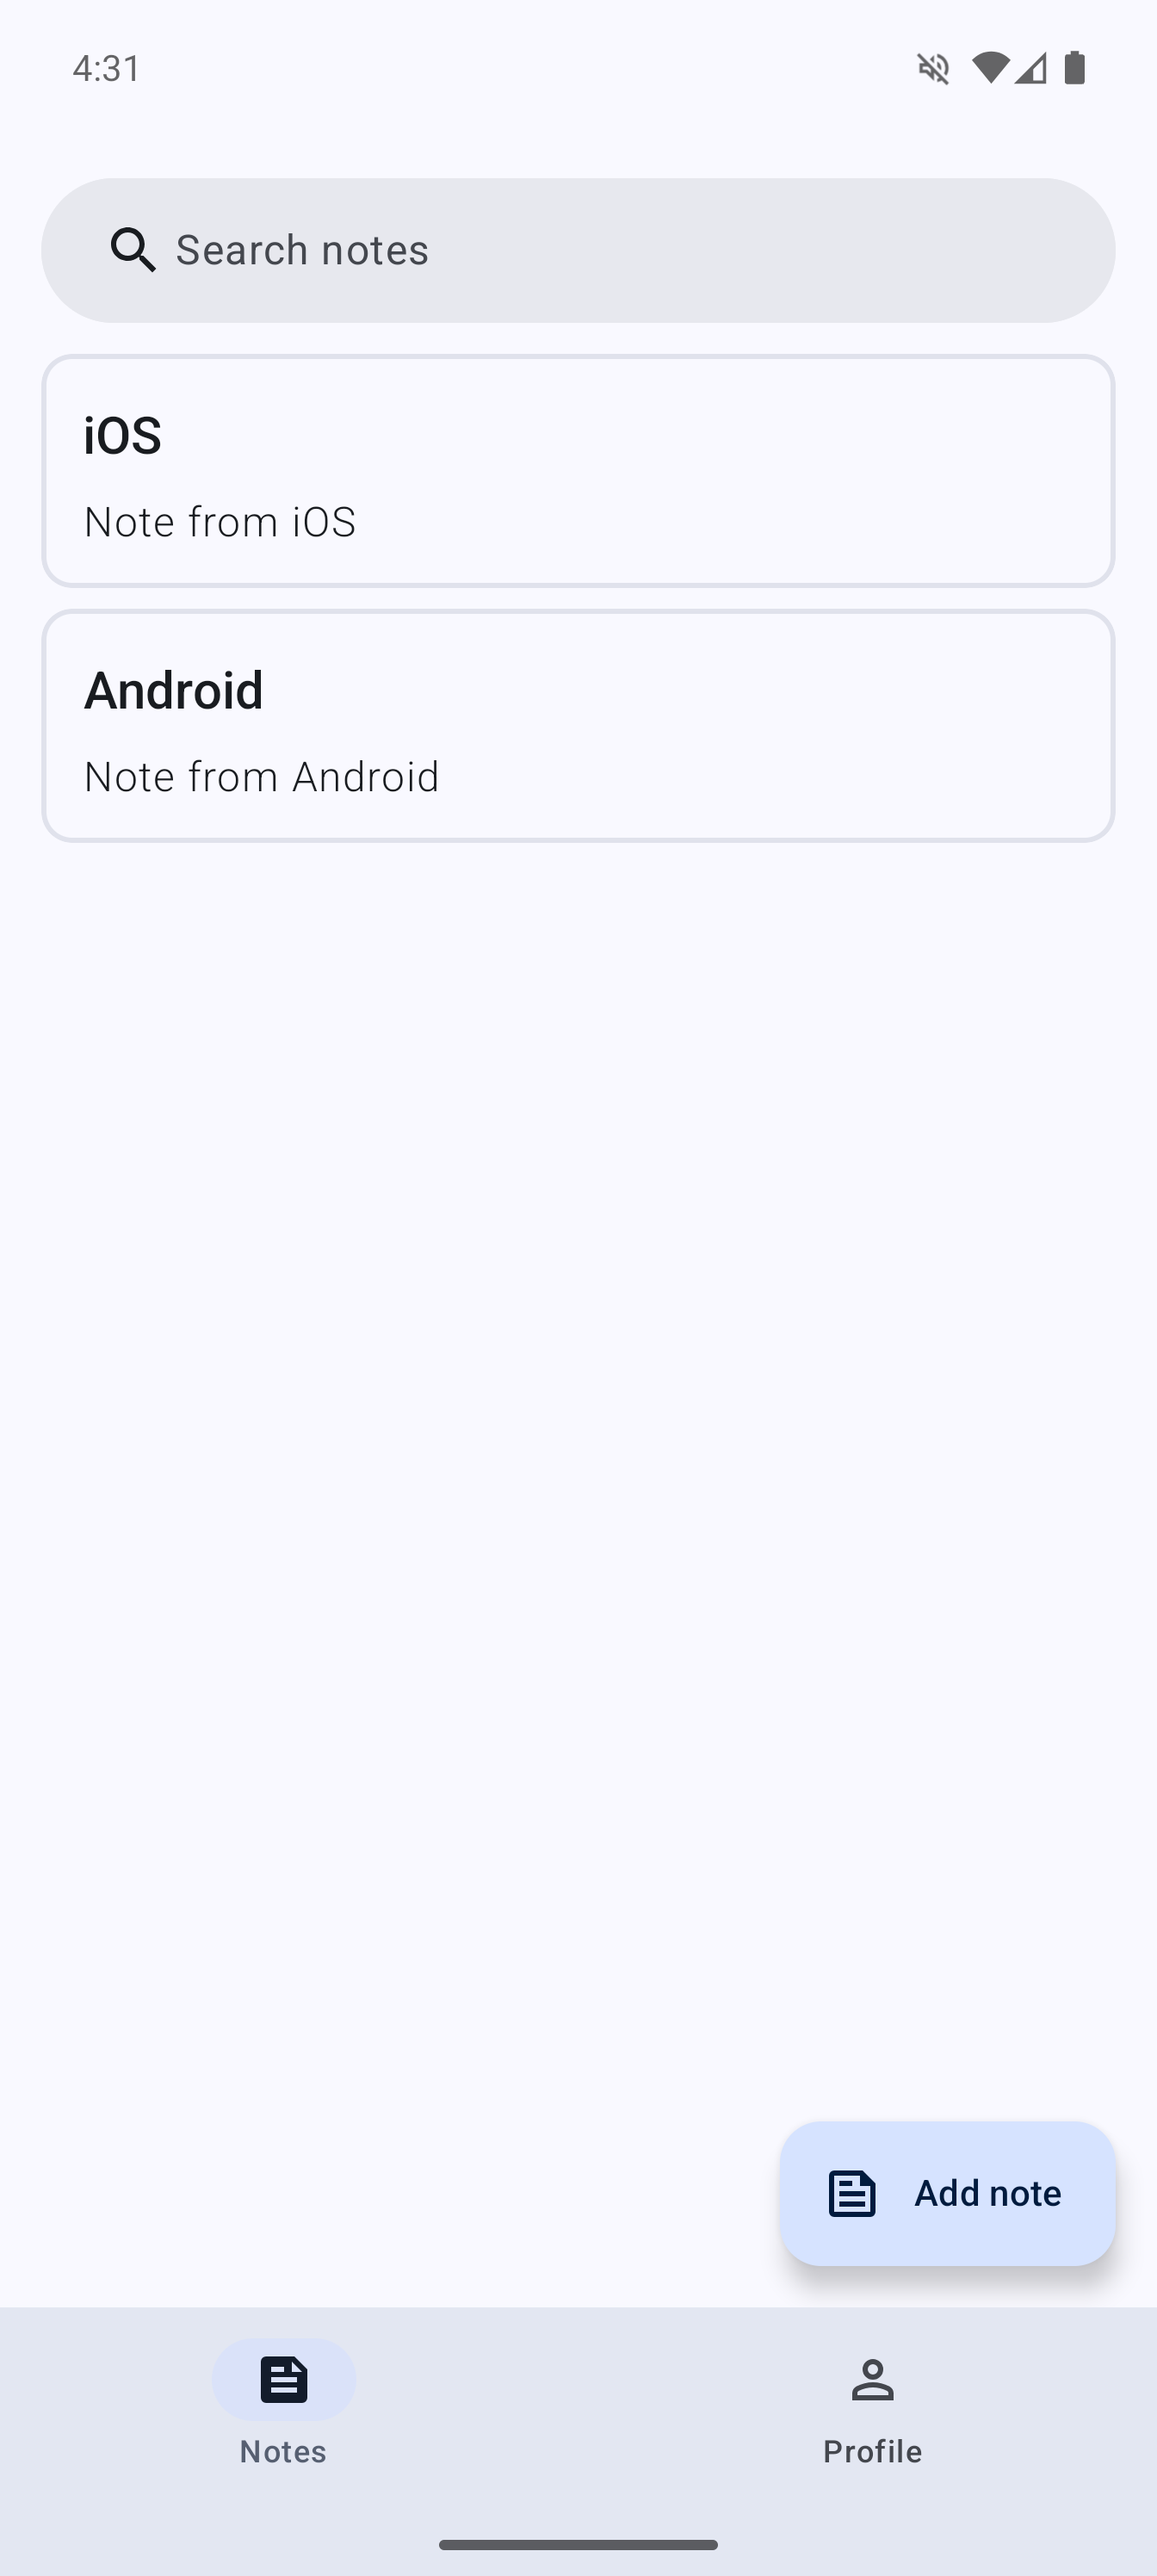
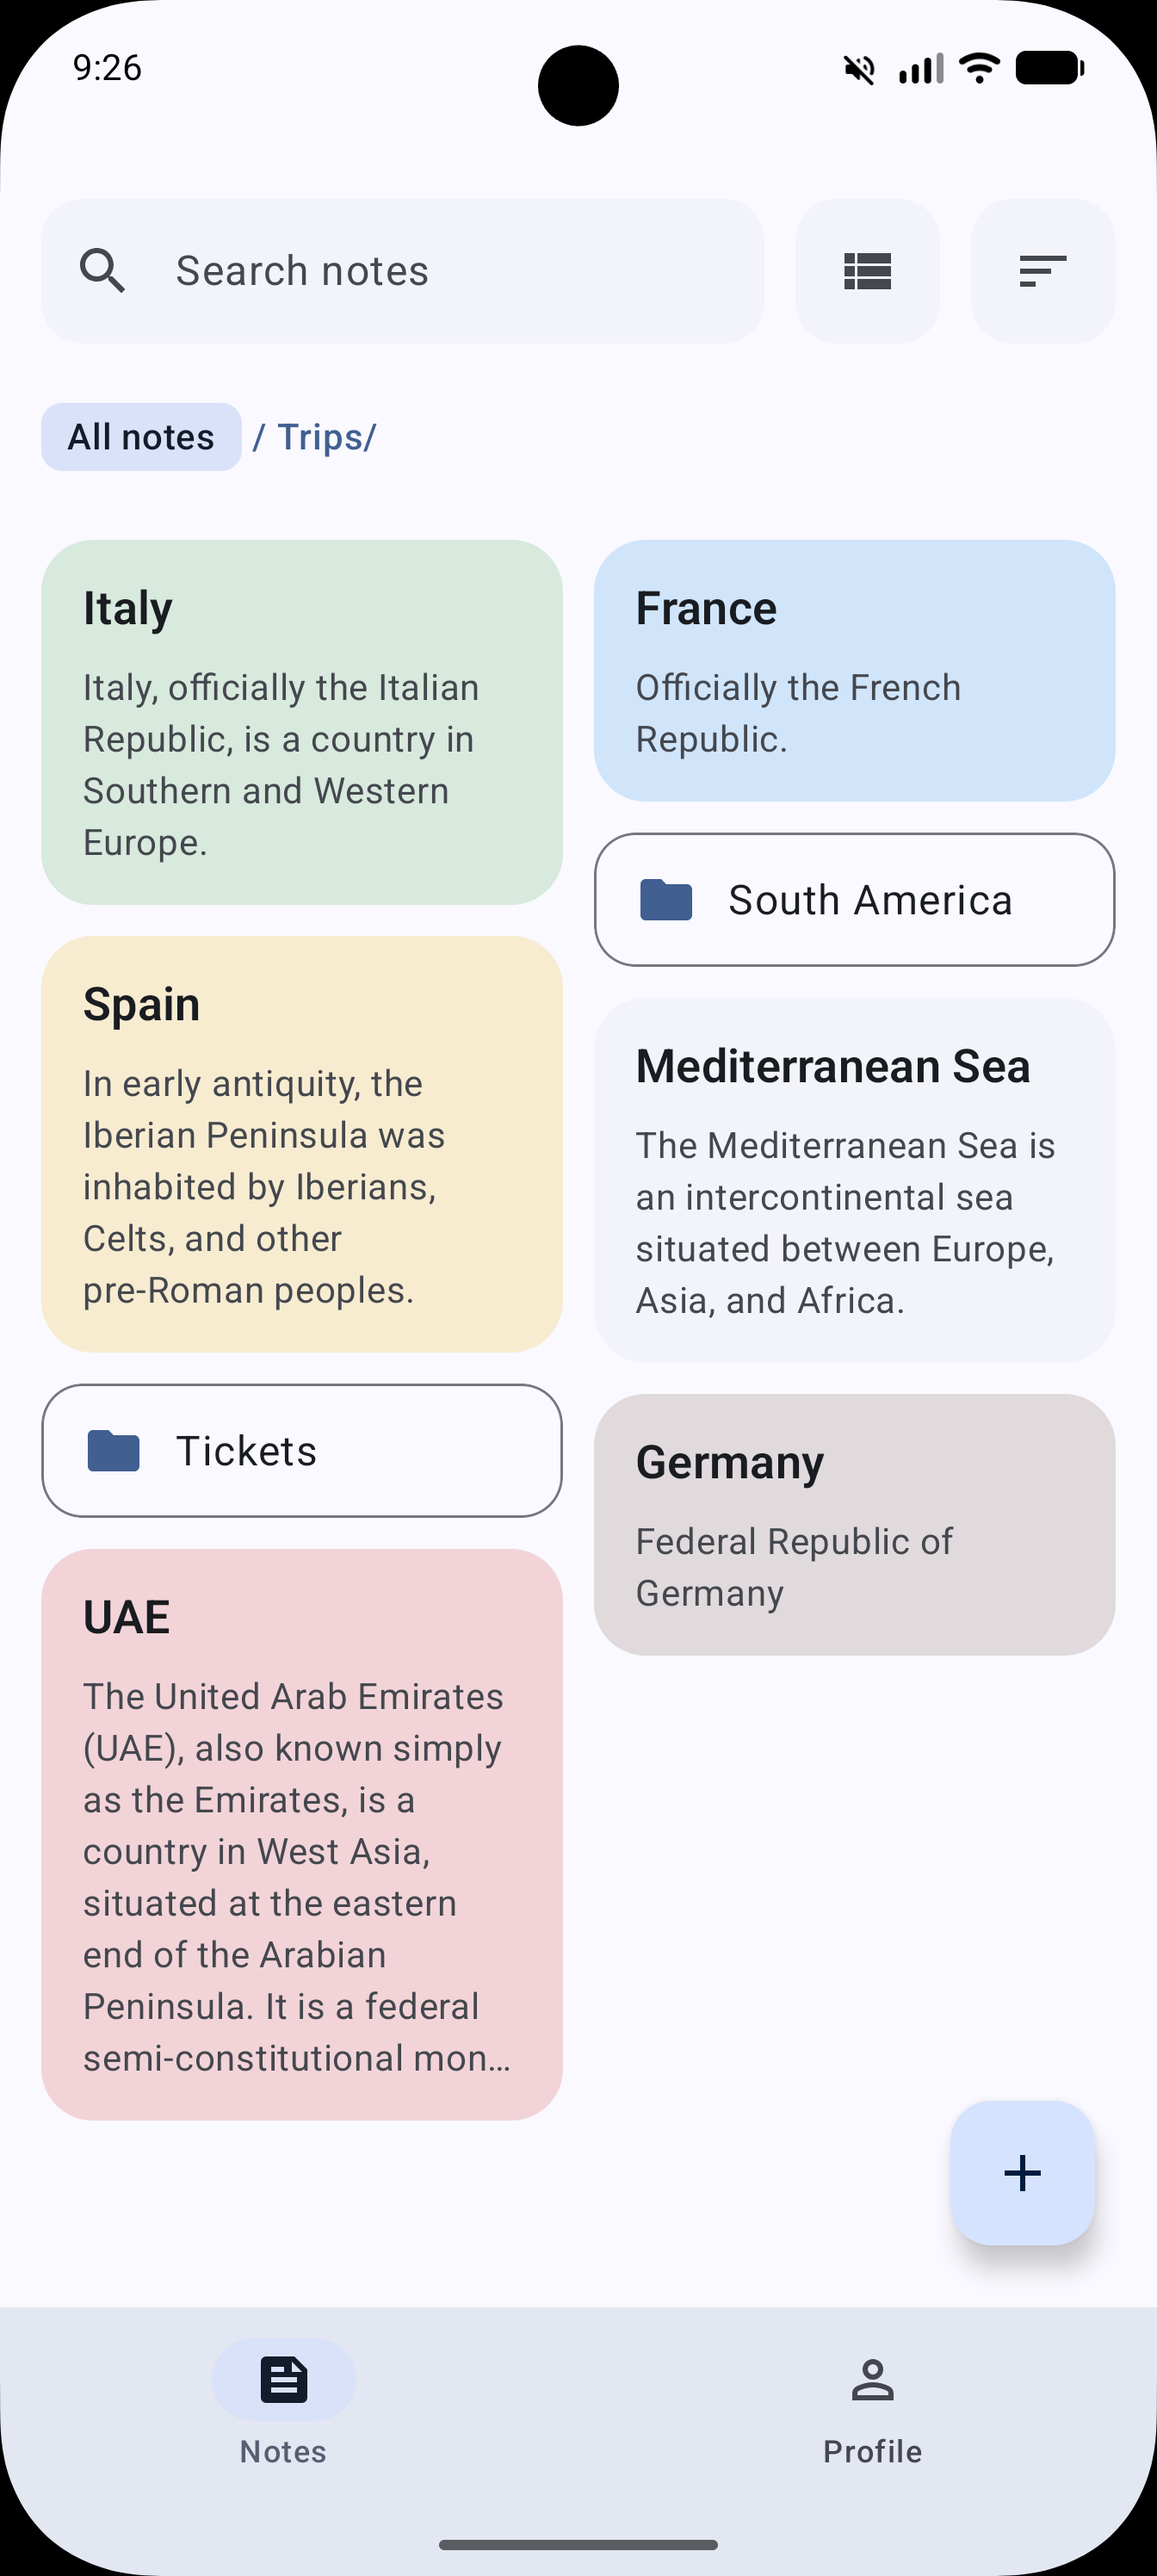
update README.md

diff --git a/README.md b/README.md
@@ -1,6 +1,6 @@
 # SecureNotes - KMP Mobile App
 
-[![Kotlin](https://img.shields.io/badge/Kotlin-2.3.21-blue.svg?style=flat&logo=kotlin)](https://kotlinlang.org)
+[![Kotlin](https://img.shields.io/badge/Kotlin-2.4.10-blue.svg?style=flat&logo=kotlin)](https://kotlinlang.org)
 
 ![badge-android](http://img.shields.io/badge/platform-android-6EDB8D.svg?style=flat)
 ![badge-ios](https://img.shields.io/badge/platform-ios-6EDB8D.svg?style=flat)
